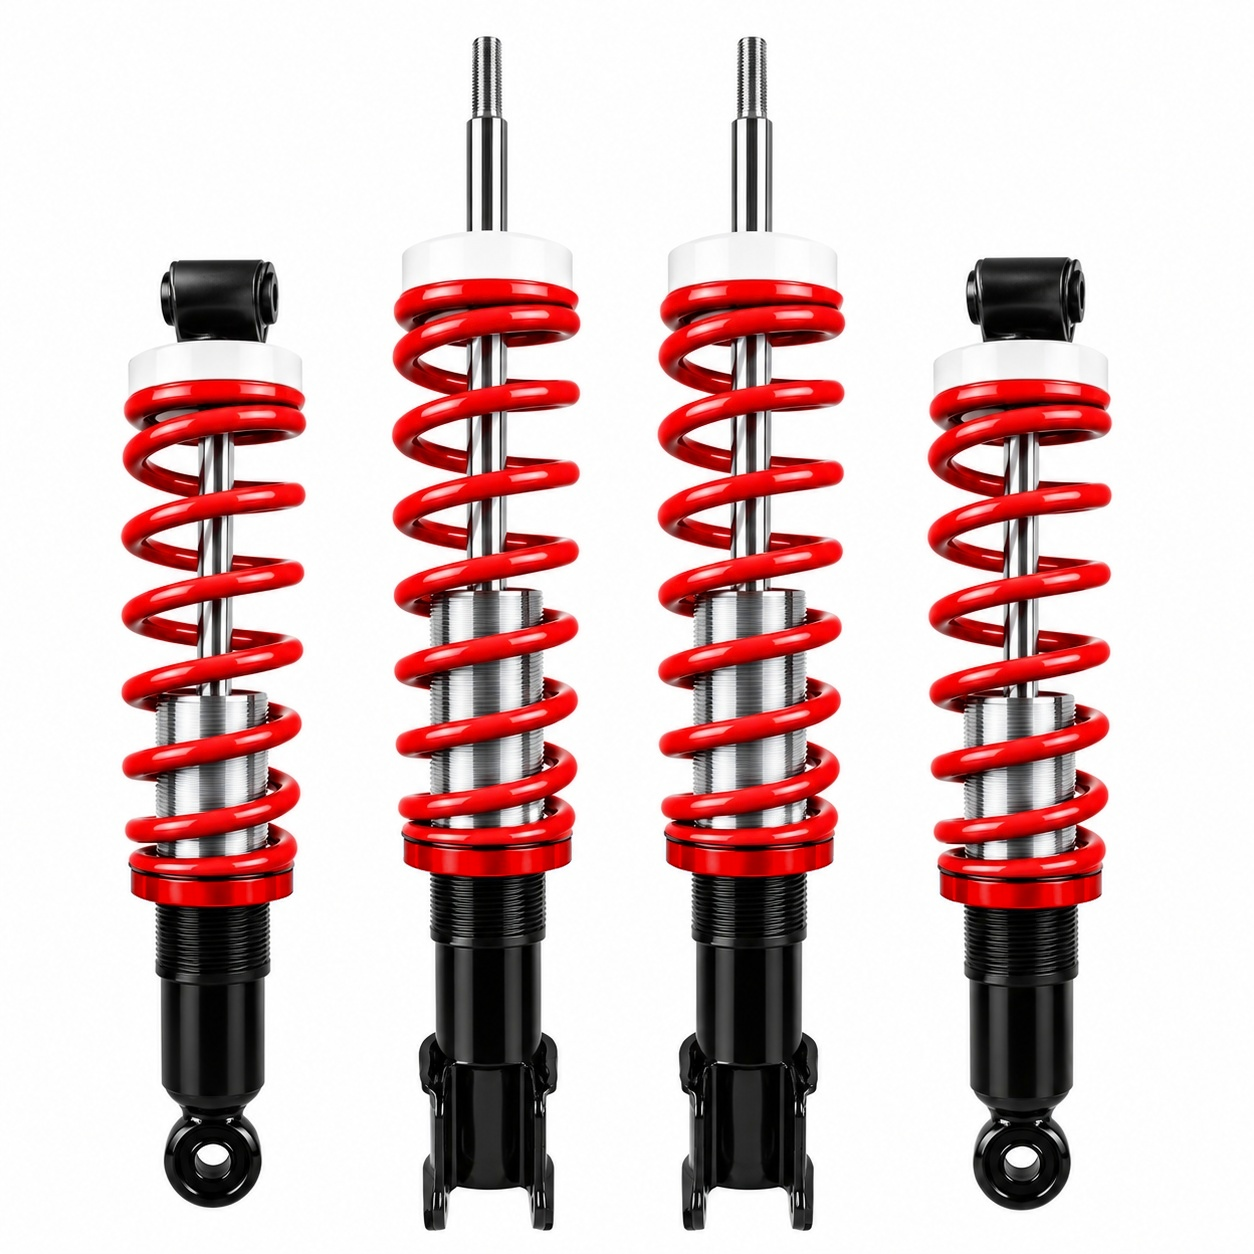
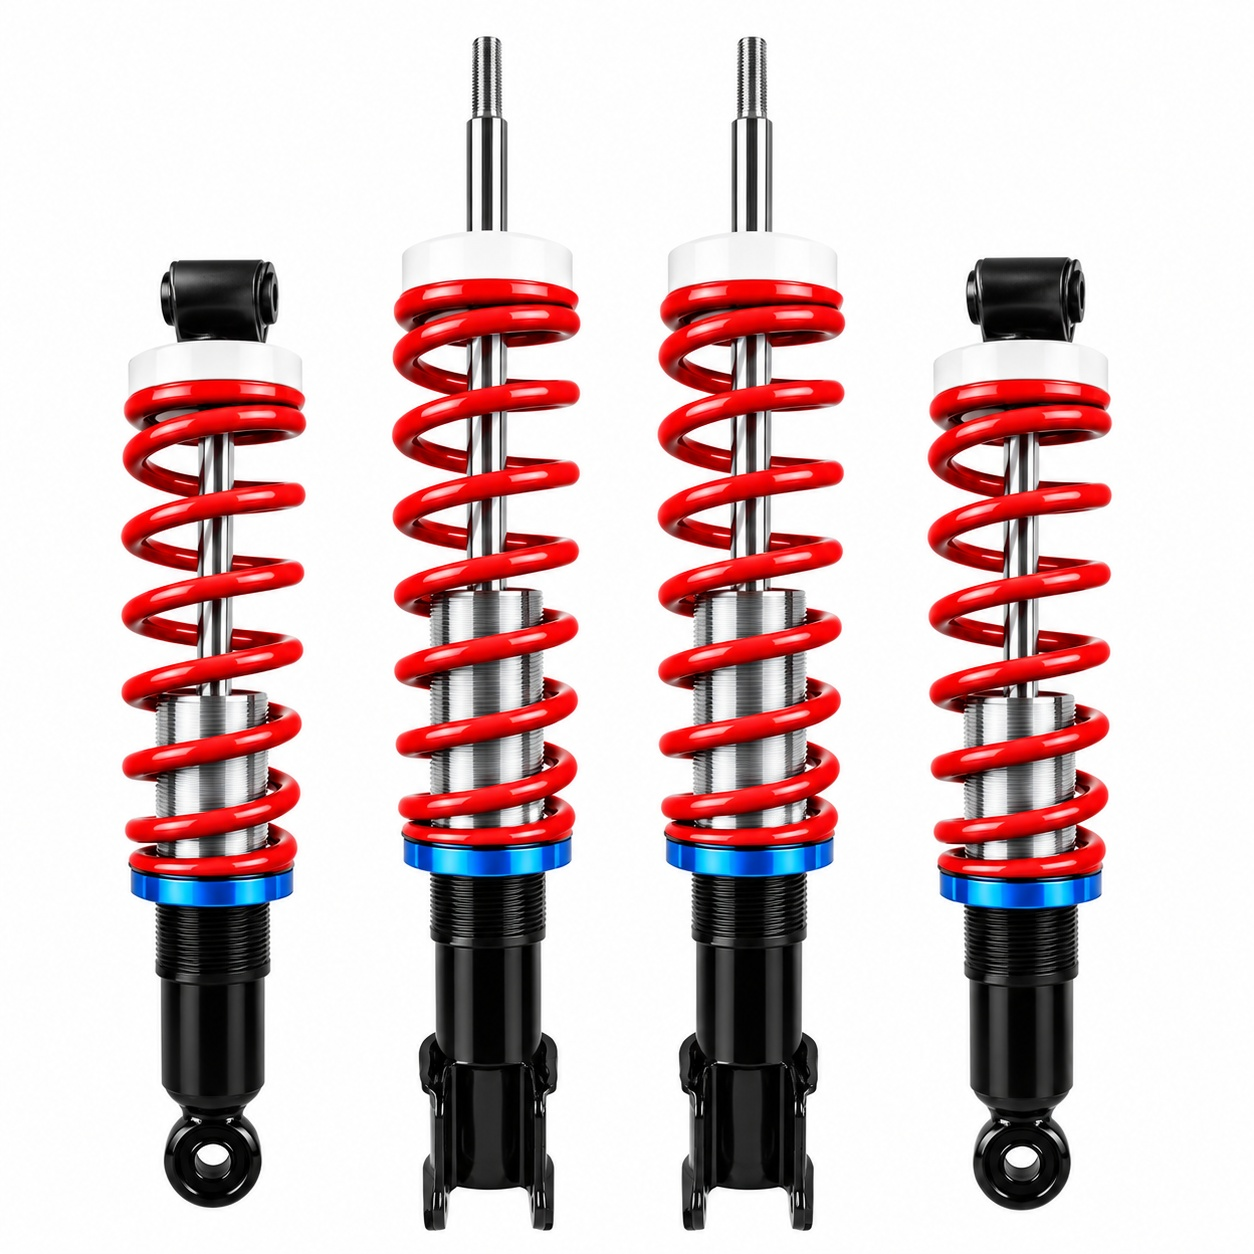
Fotos com flange azul

diff --git a/CLAUDE.md b/CLAUDE.md
@@ -139,8 +139,9 @@ aparece na área do fornecedor para ele imprimir; o botão "Avisar fornecedor no
 - Sem Supabase configurado (ex.: `.env.local` sem as chaves), o site mostra a lista reserva de `src/data/produtos.ts`.
 - Visual inspirado no site da Castor Suspensões (castorsuspensoes.com.br), com a identidade da logo da Suspen Store:
   preto, vermelho e prata. Títulos em Barlow Condensed itálico, texto em Barlow.
-- Fotos dos kits: fundo branco, molas vermelhas, roscas cromadas, pratos brancos. A **flange de ajuste de baixo é
-  vermelha** (pedido do Gilberto). A faixa azul fina de cima, que aparece em alguns modelos, fica azul.
+- Fotos dos kits: fundo branco, molas vermelhas, roscas cromadas, pratos brancos e **flange de ajuste de baixo AZUL**.
+  Em 16/10/2026 a flange foi trocada para vermelha a pedido do Gilberto, mas em 28/10/2026 o Leonardo confirmou que
+  o correto é a **azul** (fotos originais). As versões vermelhas não são mais usadas.
 - **Supabase grátis pausa o projeto após 7 dias sem uso** (aconteceu em 26/10/2026). A Vercel chama
   `/api/manter-ativo` todo dia às 9h de Brasília (`vercel.json` > `crons`) para manter ativo. Se pausar mesmo assim:
   Supabase > projeto > **Restore project** (dá para restaurar em até 90 dias). Quando a loja tiver movimento ou
